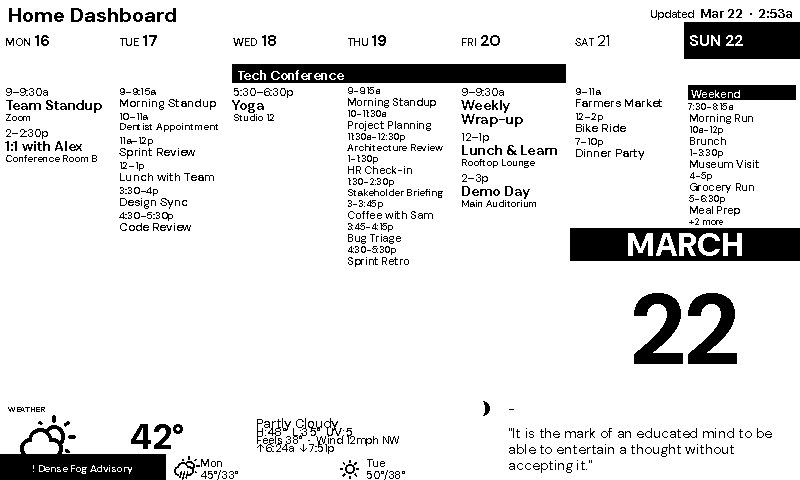
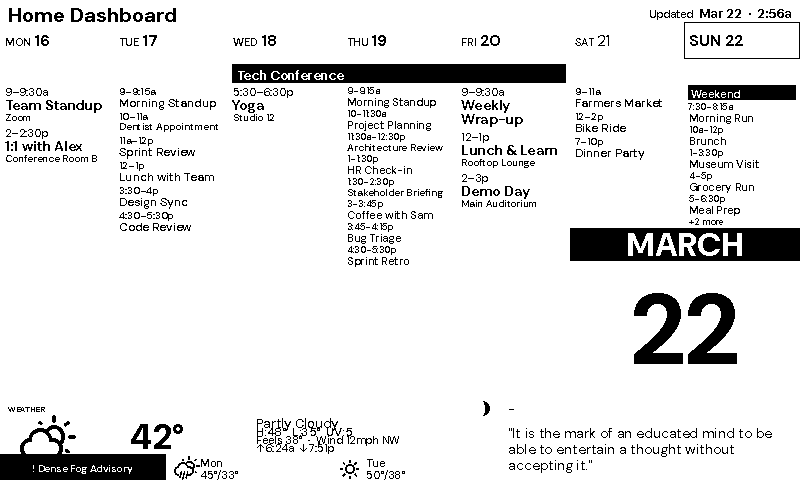
Replace minimalist today-column inversion with subtle border
Switch invert_today_col to False in the minimalist theme and update the
non-inverted today path in week_view to draw a 1px rectangle outline around
the column header cell when show_borders=False, rather than a thick underline.
Other themes using invert_today_col=False keep their existing underline behaviour.

https://claude.ai/code/session_01PExJ6VWu8kNdRG9gVxddYP

Changed region(s): [[0.8125, 0.0, 1.0, 0.125]]

diff --git a/src/render/components/week_view.py b/src/render/components/week_view.py
@@ -182,7 +182,7 @@ def draw_week(
             abbr_w = text_width(draw, day_abbr + " ", fnt)
             draw.text((cx + PAD + abbr_w, ty_num), day_num, font=fnt, fill=style.bg)
         elif is_today and not style.invert_today_col:
-            # Non-inverted today: bold text + thick underline accent
+            # Non-inverted today: bold text + accent
             fnt = style.font_bold(16)
             num_bb = draw.textbbox((0, 0), day_num, font=fnt)
             abbr_bb = draw.textbbox((0, 0), day_abbr, font=fnt)
@@ -192,9 +192,13 @@ def draw_week(
             draw.text((cx + PAD, ty_abbr), day_abbr, font=fnt, fill=style.fg)
             abbr_w = text_width(draw, day_abbr + " ", fnt)
             draw.text((cx + PAD + abbr_w, ty_num), day_num, font=fnt, fill=style.fg)
-            # Thick 2px underline beneath the day label
-            hline(draw, y0 + header_h - 3, cx + PAD, cx + col_w - PAD - 1, fill=style.fg)
-            hline(draw, y0 + header_h - 2, cx + PAD, cx + col_w - PAD - 1, fill=style.fg)
+            if style.show_borders:
+                # Thick 2px underline beneath the day label
+                hline(draw, y0 + header_h - 3, cx + PAD, cx + col_w - PAD - 1, fill=style.fg)
+                hline(draw, y0 + header_h - 2, cx + PAD, cx + col_w - PAD - 1, fill=style.fg)
+            else:
+                # Subtle 1px border around the column header cell
+                draw.rectangle((cx, y0, cx + col_w - 1, y0 + header_h - 1), outline=style.fg)
         elif is_weekend:
             # Weekend: lighter styling — regular weight instead of semibold
             wknd_abbr_font = style.font_regular(11)

diff --git a/src/render/themes/minimalist.py b/src/render/themes/minimalist.py
@@ -40,7 +40,7 @@ def minimalist_theme() -> Theme:
             fg=0,
             bg=1,
             invert_header=False,          # no filled bar, no border line
-            invert_today_col=True,        # bold black today — the NOW is declared
+            invert_today_col=False,       # subtle border around today's column header
             invert_allday_bars=True,      # solid black all-day bars, no outlines
             show_borders=False,           # no structural borders or separator lines
             spacing_scale=1.0,            # tight, grid-precise event packing
